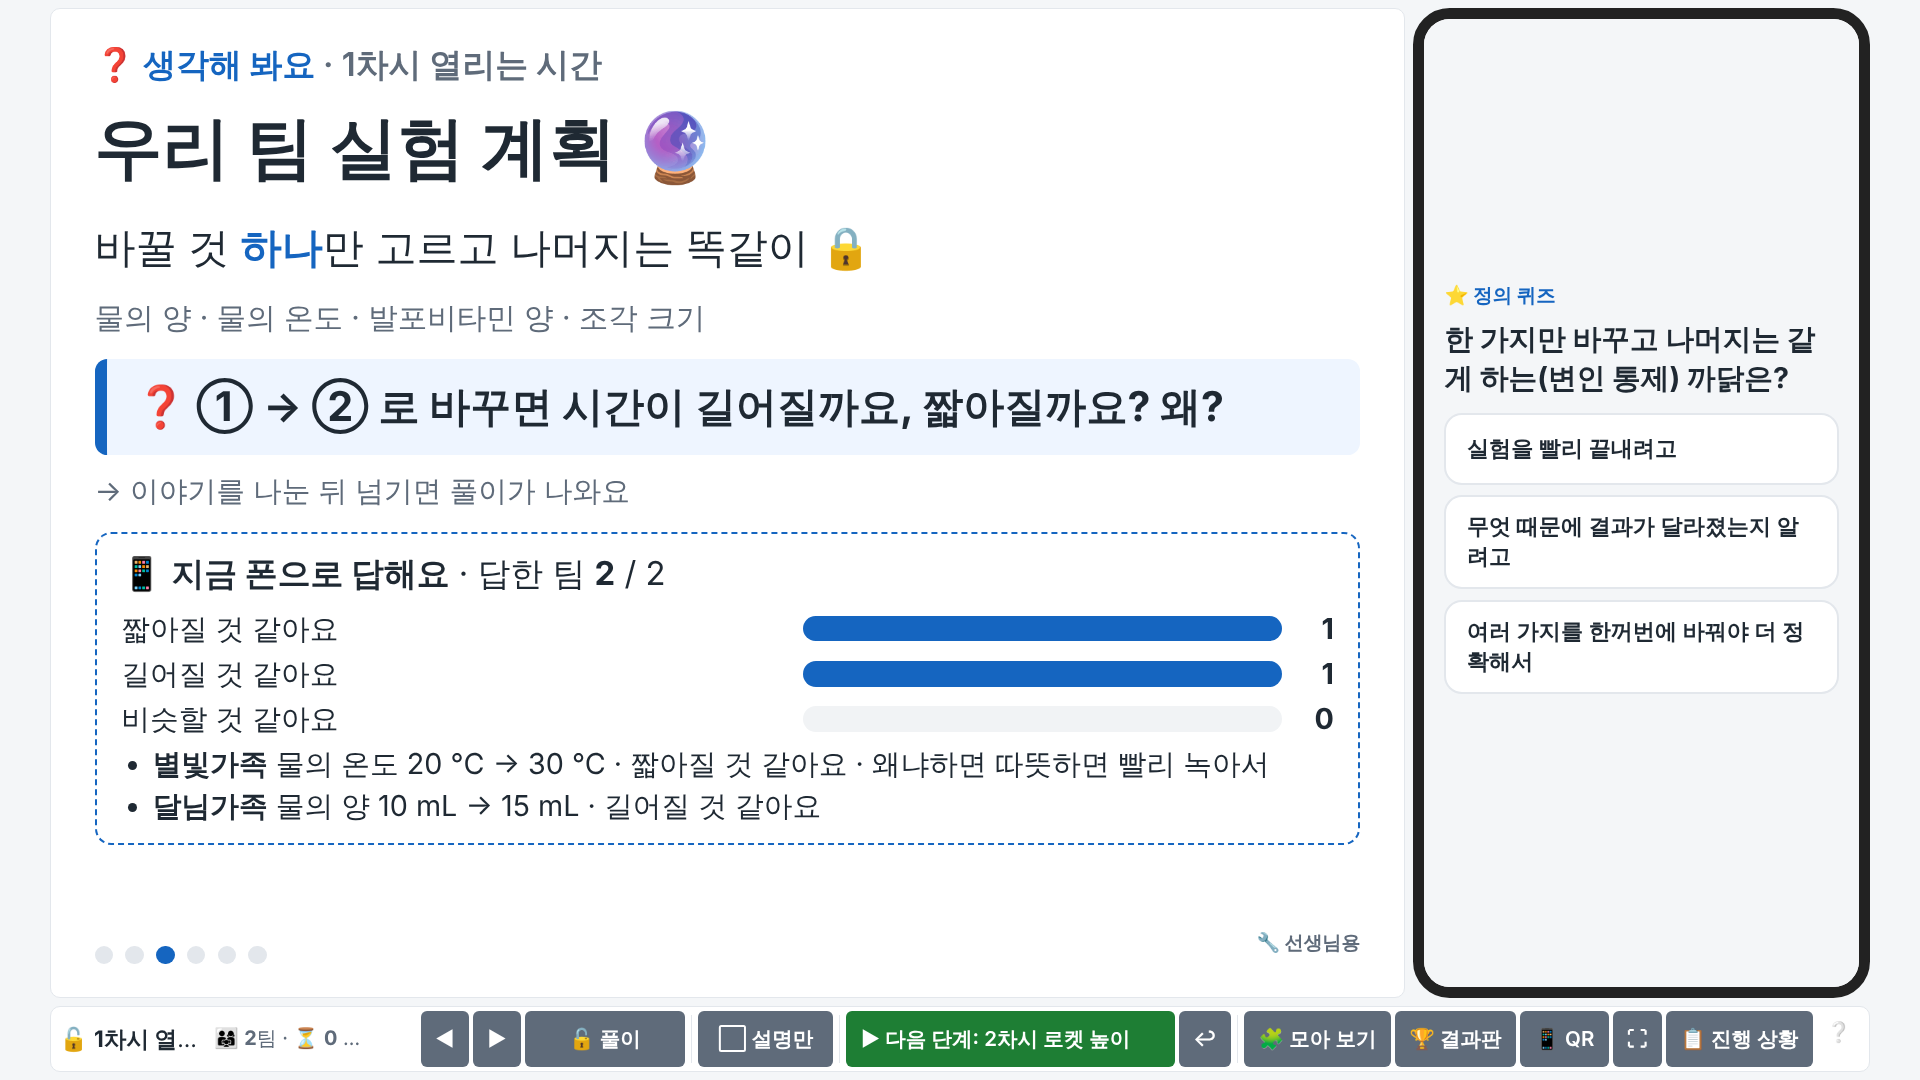
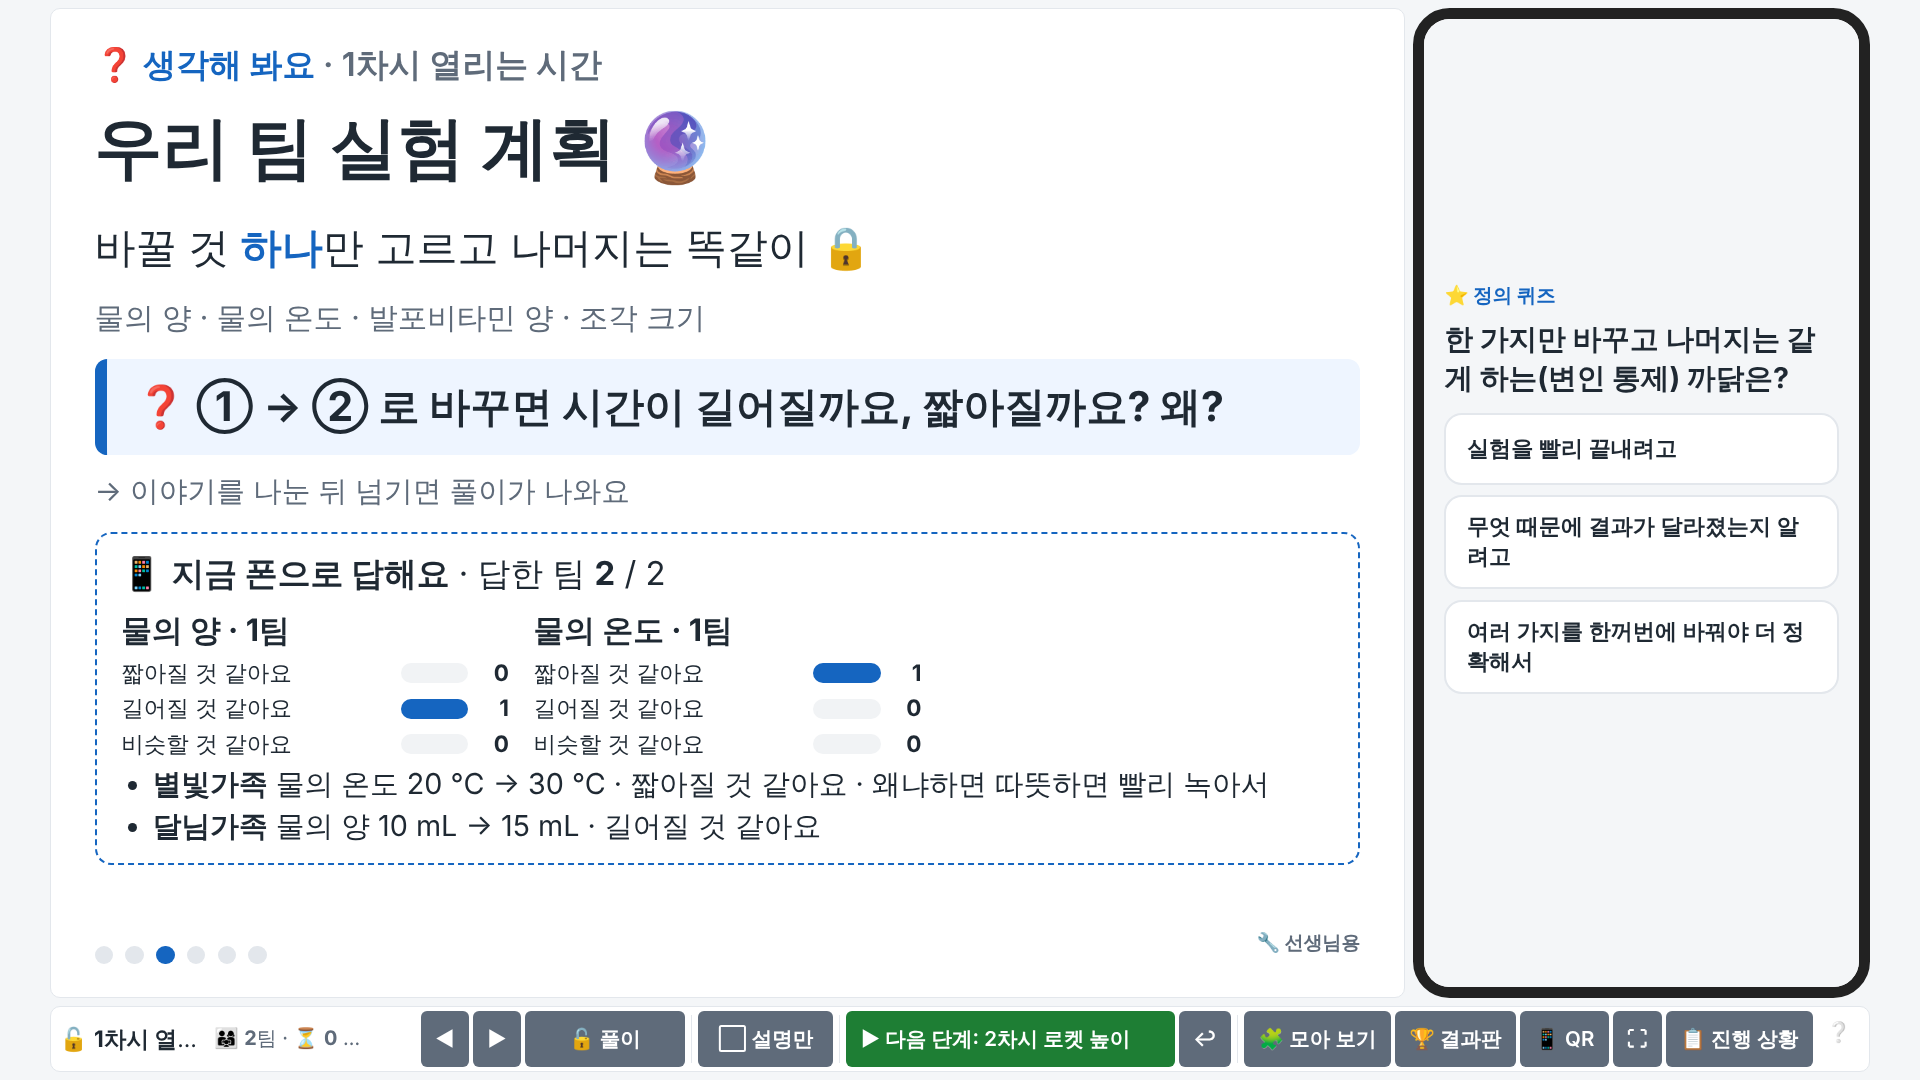
로켓 분량 조절: 선생님이 고른 그림 흐름(1차시 그림 카드·2차시 장면 그림)만 남기기, 계획 장 프로젝터는 바꿀 것별 묶음, 화면 사진
Claude-Session: https://claude.ai/code/session_013iu8SMz53o82SYe7xxBGoe

Changed region(s): [[0.0625, 0.55, 0.6562, 0.7944], [0.4062, 0.55, 0.6875, 0.6417]]

diff --git a/js/lesson-content/rocket.js b/js/lesson-content/rocket.js
@@ -26,8 +26,7 @@
         '<path d="M40 150 L40 205 M28 192 L40 205 L52 192" stroke="#1565c0" stroke-width="6" fill="none"/><text x="40" y="140" text-anchor="middle" font-size="15" fill="#1565c0">물·기체 ↓</text></svg>';
 
     /* '이렇게 재요'·'이렇게 찍고 재요' (2026-11-27 선생님 '직관적이지 않음' → 초3 가족이 프로젝터로 한눈에: 글 목록 대신 큰 그림, 낱말 최소,
-       녹화/초시계는 작은 보조 줄, 예측은 '우리 팀 실험 계획' 장에서 이미 물어서 뺌). 두 안을 견주어 고름 → HOW 하나만 남김 */
-    var HOW_V = (typeof window !== 'undefined' && window.ROCKET_HOW) || 'a';
+       녹화/초시계는 작은 보조 줄, 예측은 '우리 팀 실험 계획' 장에서 이미 물어서 뺌). 선생님이 고른 것: 1차시 = 그림 카드 3칸, 2차시 = 장면 그림 하나 */
     var CAN = function (x, lbl, fill) {   // 작은 필름통 (x: 왼쪽, lbl: ①/②)
         return '<g transform="translate(' + x + ' 0)"><rect x="0" y="28" width="34" height="52" rx="5" fill="#eceff1" stroke="#455a64" stroke-width="3"/>' +
             '<rect x="-3" y="20" width="40" height="10" rx="3" fill="#ffb74d"/><rect x="3" y="52" width="28" height="26" fill="' + fill + '"/>' +
@@ -42,35 +41,13 @@
         '<rect x="30" y="34" width="34" height="62" rx="3" fill="#90caf9"/><rect x="86" y="54" width="34" height="42" rx="3" fill="#ef9a9a"/>' +
         '<text x="47" y="26" text-anchor="middle" font-size="16" font-weight="700" fill="#1565c0">①</text><text x="103" y="46" text-anchor="middle" font-size="16" font-weight="700" fill="#c62828">②</text></svg>';
     var AVG = '<p class="ls-aside">⏱ 초시계 또는 🎥 녹화(‘펑’ 장면 고르기) · 🧒 평균 = 여러 번 잰 값을 모두 더해 잰 횟수로 나눈 값</p>';
-    var HOW_T1 = {
-        // 안 A: 그림 카드 3칸 흐름
-        a: { flow: [{ n: '①', img: SVG_SAME3, t: '그대로<br>3번 재요' }, { n: '②', img: SVG_CHG3, t: '하나만 바꿔<br>3번 재요' }, { n: '📊', img: SVG_BARS, t: '평균을<br>견줘요' }], body: AVG },
-        // 안 B: 채워 갈 결과 표 하나 (폰의 결과 비교 표와 같은 모양)
-        b: { body: '<table class="ls-fill"><thead><tr><th></th><th>1번</th><th>2번</th><th>3번</th><th>평균</th></tr></thead><tbody>' +
-           '<tr><th>① 그대로</th><td>⏱</td><td>⏱</td><td>⏱</td><td class="ls-avg">?초</td></tr>' +
-           '<tr><th>② 하나만 바꿔서</th><td>⏱</td><td>⏱</td><td>⏱</td><td class="ls-avg">?초</td></tr></tbody></table>' +
-           '<p class="ls-bigq">①과 ②의 <b>평균</b>은 어떻게 다를까요?</p>' + AVG }
-    };
+    // 1차시: 그림 카드 3칸 흐름 (① 그대로 3번 → ② 하나만 바꿔 3번 → 평균 견주기)
+    var HOW_T1 = { flow: [{ n: '①', img: SVG_SAME3, t: '그대로<br>3번 재요' }, { n: '②', img: SVG_CHG3, t: '하나만 바꿔<br>3번 재요' }, { n: '📊', img: SVG_BARS, t: '평균을<br>견줘요' }], body: AVG };
     var KID = function (x, h) {   // 아이 (발끝 y=150, 키 h)
         var top = 150 - h;
         return '<circle cx="' + x + '" cy="' + (top + 10) + '" r="10" fill="#ffcc80"/><rect x="' + (x - 9) + '" y="' + (top + 20) + '" width="18" height="' + (h * 0.42) + '" rx="6" fill="#42a5f5"/>' +
             '<rect x="' + (x - 7) + '" y="' + (top + 20 + h * 0.42) + '" width="6" height="' + (h - 20 - h * 0.42) + '" fill="#1e88e5"/><rect x="' + (x + 1) + '" y="' + (top + 20 + h * 0.42) + '" width="6" height="' + (h - 20 - h * 0.42) + '" fill="#1e88e5"/>';
     };
-    var SVG_STAND = '<svg viewBox="0 0 120 160" role="img" aria-label="아이가 발사대 바로 옆에 선 그림"><rect x="0" y="150" width="120" height="4" fill="#90a4ae"/>' +
-        '<rect x="22" y="138" width="22" height="12" fill="#607d8b"/><rect x="28" y="100" width="10" height="38" rx="3" fill="#ef6c00"/><path d="M28 100 L33 88 L38 100 Z" fill="#c62828"/>' + KID(76, 80) + '</svg>';
-    var SVG_FILM2 = '<svg viewBox="0 0 120 160" role="img" aria-label="부모님이 2~3 m 떨어져 폰을 세로로 들고 찍는 그림"><rect x="0" y="150" width="120" height="4" fill="#90a4ae"/>' +
-        '<circle cx="84" cy="62" r="11" fill="#ffcc80"/><rect x="74" y="73" width="20" height="46" rx="6" fill="#7e57c2"/><rect x="76" y="119" width="7" height="31" fill="#5e35b1"/><rect x="85" y="119" width="7" height="31" fill="#5e35b1"/>' +
-        '<rect x="54" y="66" width="13" height="22" rx="2" fill="#263238"/><rect x="56" y="69" width="9" height="15" fill="#80deea"/>' +
-        '<path d="M8 140 L48 140" stroke="#455a64" stroke-width="2.5"/><path d="M8 134 L8 146 M48 134 L48 146" stroke="#455a64" stroke-width="2.5"/><text x="28" y="130" text-anchor="middle" font-size="14" font-weight="700" fill="#455a64">2~3 m</text></svg>';
-    var SVG_TOP = '<svg viewBox="0 0 120 160" role="img" aria-label="로켓이 가장 높이 오른 장면"><rect x="0" y="150" width="120" height="4" fill="#90a4ae"/>' +
-        '<path d="M40 140 Q46 70 52 30" stroke="#ffb74d" stroke-width="3" stroke-dasharray="5 4" fill="none"/>' +
-        '<rect x="47" y="18" width="10" height="34" rx="3" fill="#ef6c00"/><path d="M47 18 L52 6 L57 18 Z" fill="#c62828"/>' + KID(88, 80) +
-        '<text x="22" y="28" font-size="20" aria-hidden="true">⭐</text></svg>';
-    var SVG_TAP = '<svg viewBox="0 0 120 160" role="img" aria-label="발끝, 정수리, 로켓 꼭대기 세 곳을 누르는 그림"><rect x="0" y="150" width="120" height="4" fill="#90a4ae"/>' +
-        '<rect x="42" y="22" width="10" height="34" rx="3" fill="#ef6c00"/><path d="M42 22 L47 10 L52 22 Z" fill="#c62828"/>' + KID(86, 80) +
-        '<g font-size="13" font-weight="700"><circle cx="86" cy="150" r="9" fill="#43a047"/><text x="86" y="155" text-anchor="middle" fill="#fff">1</text>' +
-        '<circle cx="86" cy="70" r="9" fill="#1e88e5"/><text x="86" y="75" text-anchor="middle" fill="#fff">2</text>' +
-        '<circle cx="47" cy="10" r="9" fill="#e53935"/><text x="47" y="15" text-anchor="middle" fill="#fff">3</text></g></svg>';
     var SVG_SCENE2 = '<svg viewBox="0 0 420 222" role="img" aria-label="아이가 발사대 옆에 서고, 부모님이 2~3 m 떨어져 세로로 찍고, 가장 높은 장면에서 발끝·정수리·로켓 꼭대기를 누르는 그림">' +
         '<rect x="0" y="180" width="420" height="5" fill="#90a4ae"/>' +
         '<rect x="70" y="168" width="26" height="12" fill="#607d8b"/><path d="M83 165 Q90 100 96 50" stroke="#ffb74d" stroke-width="3" stroke-dasharray="6 5" fill="none"/>' +
@@ -86,12 +63,9 @@
         '<text x="240" y="205" text-anchor="middle" font-size="16" font-weight="700" fill="#455a64">2~3 m · 폰은 세로로</text></svg>';
     var PCT = '<p class="ls-aside">📏 자 대신 <b>같은 장면 속 아이 키</b>와 견줘요 · 녹화가 안 되면 눈으로 높다·비슷·낮다</p>' +
         '<p class="ls-easy">🧒 쉬운 말 · % = 아이 키를 100 으로 볼 때 얼마만큼인지 · 정수리 = 머리 꼭대기</p>';
-    var HOW_T2 = {
-        a: { flow: [{ n: '1', img: SVG_STAND, t: '발사대<br>옆에 서요' }, { n: '2', img: SVG_FILM2, t: '세로로<br>찍어요' }, { n: '3', img: SVG_TOP, t: '가장 높은<br>장면' }, { n: '4', img: SVG_TAP, t: '세 곳<br>눌러요' }],
-             body: '<p class="ls-aside">👆 ① 발끝 ② 정수리 ③ 로켓 꼭대기 → ‘아이 키의 ○%’</p>' + PCT },
-        b: { flow: [{ img: SVG_SCENE2 }],
-             body: '<p class="ls-bigq"><span class="ls-dot g">1</span> 발끝 <span class="ls-dot b">2</span> 정수리 <span class="ls-dot r">3</span> 로켓 꼭대기 → <b>아이 키의 ○%</b></p>' + PCT }
-    };
+    // 2차시: 장면 그림 하나 (아이·로켓·찍는 부모님·2~3 m·세 점)
+    var HOW_T2 = { flow: [{ img: SVG_SCENE2 }],
+        body: '<p class="ls-bigq"><span class="ls-dot g">1</span> 발끝 <span class="ls-dot b">2</span> 정수리 <span class="ls-dot r">3</span> 로켓 꼭대기 → <b>아이 키의 ○%</b></p>' + PCT };
 
     // 🛠 로켓 만들기 (2026-11-27 '학생이 로켓을 만드는 과정도 있어야해'): 네 단계 그림 카드 — 폰은 차례 체크 + '다 만들었어요'
     var BODY = function (extra) {   // 뒤집어 세운 로켓 몸통 (뚜껑이 아래)
@@ -187,7 +161,7 @@
                   note: '폰은 ‘변인 통제’ 퀴즈(팀 점수) → ‘무엇을 바꿔 볼까요?’(바꿀 것 하나 · ① → ② · 🔮 예측 · 까닭)예요. 예측은 정답이 없어요 — 프로젝터에 모인 길어질·짧아질·비슷과 까닭을 두세 팀 말하게 한 뒤 풀이(변인 통제)를 여세요. 측정할 때는 예측을 다시 묻지 않아요.' },
                 // 📱 측정 장 (2026-11-23 '폰은 응답만'): 이 장을 띄운 동안 팀 폰이 측정 화면 — '이렇게 재요'를 그림 흐름으로 이 장 안에 (2026-11-27)
                 { kind: 'how', title: '📱 이제 폰으로 재요', key: 'do-t1', mode: 'phone',
-                  flow: (HOW_T1[HOW_V] || HOW_T1.a).flow, body: (HOW_T1[HOW_V] || HOW_T1.a).body,
+                  flow: HOW_T1.flow, body: HOW_T1.body,
                   note: '이 장을 띄워 둔 동안 팀 폰이 1차시 측정 화면이 돼요(안전 → 조건 → 재기 → 결과 비교). 다음 장으로 넘기면 측정 중이 아닌 팀은 👀 대기, 재는 중인 팀은 그 측정을 마친 뒤 바뀌어요. 손으로 누르는 초시계는 늦기 쉬워 녹화가 더 정확하다는 점도 견주어 볼 수 있어요.' },
                 { kind: 'ask', title: '같은 조건인데 시간이 달라요!',
                   body: '<p>같은 물, 같은 발포비타민인데 1번은 12초, 2번은 15초.</p>',
@@ -209,7 +183,7 @@
                 { kind: 'ask', title: '날개와 앞코는 왜 달까요?', mode: 'look',
                   body: '<p>날아갈 때 <b>공기</b>가 앞을 막아요(<b>공기 저항</b>).</p>',
                   ask: '뾰족한 앞코와 꼬리 날개는 어떤 일을 할까요?',
-                  reveal: '<p><b>앞코</b> — 공기를 갈라 <b>공기 저항</b>을 줄여요 · <b>날개</b> — <b>똑바로</b> 날게 해요</p><p class="ls-easy">🧒 쉬운 말 · 공기 저항 = 공기가 움직임을 막는 힘</p>',
+                  reveal: '<p><b>앞코</b> — 공기를 갈라 <b>공기 저항</b>을 줄여요 · <b>꼬리 날개</b> — <b>똑바로</b> 날게 해요</p><p class="ls-easy">🧒 쉬운 말 · 공기 저항 = 공기가 움직임을 막는 힘</p>',
                   note: '날개가 너무 무겁거나 크면 오히려 덜 올라갈 수 있어요. 2차시에서 날개 수를 바꿀 것으로 고른 팀이 까닭을 말할 때 연결해 주세요.' },
                 // 쏘는 힘(작용 반작용) + 무게(질량) 물음을 하나로 (2026-11-27): 폰은 두 퀴즈를 차례로, 풀이를 열면 둘 다 열림
                 { kind: 'why', title: '로켓은 왜 솟고, 무거우면 어떻게 될까요?', key: 'action', mode: 'phone', opens: ['mass'],
@@ -227,7 +201,7 @@
                   note: '폰은 ‘무엇을 바꿔 볼까요?’(바꿀 것 하나 · ① → ② · 🔮 예측 · 까닭)예요. 정답이 없는 예측이에요 — 프로젝터에 모인 높아질·낮아질·비슷과 까닭을 두세 팀 말하게 해 보세요. 쏠 때는 예측을 다시 묻지 않아요.' },
                 // 📱 측정 장: 2차시 발사·촬영·세 곳 누르기 — '이렇게 찍고 재요'와 '%로 재는 까닭'을 그림 흐름으로 이 장 안에
                 { kind: 'how', title: '📱 이제 폰으로 쏘아요', key: 'do-t2', mode: 'phone',
-                  flow: (HOW_T2[HOW_V] || HOW_T2.a).flow, body: (HOW_T2[HOW_V] || HOW_T2.a).body,
+                  flow: HOW_T2.flow, body: HOW_T2.body,
                   note: '이 장을 띄워 둔 동안 팀 폰이 2차시 측정 화면이 돼요. 자를 들고 하늘까지 잴 수 없으니, 같은 장면·같은 거리에 있는 아이 키를 기준으로 견줘요. 아이 키(cm)는 폰에만 남고 선생님께는 %만 와요. 찍는 중인 팀은 장을 넘겨도 그 측정을 마친 뒤 바뀌어요.' },
                 { kind: 'how', title: '🎯 도전: 딱 아이 키만큼!', key: 'ch-t2', mode: 'phone',
                   body: '<p>우리 <b>결과 표</b>를 보고 조건을 골라 <b>아이 키만큼</b> 쏘아 올려요.</p>',

diff --git a/js/class-teacher-answers.js b/js/class-teacher-answers.js
@@ -63,14 +63,20 @@
         if (pm) {
             var part = pm[1], G = M.GUESS[part], defs = part === 't1' ? M.vars1() : M.vars2();
             var gOpts = ['down', 'up', 'same'].map(function (k) { return { k: 'g-' + k, t: G[k] }; });
-            var gg = choiceGroup('', gOpts, function (p) { var x = p[part]; return x && x.changed && p.guess && p.guess[part] && p.guess[part].dir ? 'g-' + p.guess[part].dir : ''; }, list);
+            // 바꿀 것별로 묶음 (2026-11-27 선생님이 고른 '팀이 고른 것으로'): 고른 팀이 있는 변인만, 변인 목록 순서
+            var pickOf = function (p) { var x = p[part]; return x && x.changed && p.guess && p.guess[part] && p.guess[part].dir ? 'g-' + p.guess[part].dir : ''; };
+            var gs = Object.keys(defs).map(function (vk) {
+                var mine = list.filter(function (p) { return p[part] && p[part].changed === vk && pickOf(p); });
+                return mine.length ? choiceGroup((defs[vk].short || defs[vk].name) + ' · ' + mine.length + '팀', gOpts, pickOf, mine) : null;
+            }).filter(Boolean);
+            var answered = gs.reduce(function (n, g) { return n + g.answered; }, 0);
             var items = [];
             withP.forEach(function (x) {
                 var p = x.p, z = p && p[part], g = p && p.guess && p.guess[part]; if (!z || !z.changed || !g || !g.dir) return;
                 var d = defs[z.changed], pl = z.plan;
                 items.push({ name: x.name, text: (d ? (d.short || d.name) : z.changed) + (d && pl && pl.length === 2 ? ' ' + d.label(pl[0]) + ' → ' + d.label(pl[1]) : '') + ' · ' + (G[g.dir] || '') + (g.why ? ' · 왜냐하면 ' + g.why : '') });
             });
-            return { kind: 'choice', groups: [gg], list: items, answered: gg.answered, total: total };
+            return { kind: 'choice', groups: gs, list: items, answered: answered, total: total };
         }
         // 🛠 만들기: 다 만든 팀 수
         if (key === 'build') {

diff --git a/AGENTS.md b/AGENTS.md
@@ -416,4 +416,4 @@
 - 2026-11-27: **글자만 보는 시험을 화면 시험으로**(선생님 결정 "글자만 보는 시험을 화면 시험으로", 통합 관리 세션 전달) — 안티그래비티가 11-24~25 에 넣은 시험 중 코드 파일 글자만 찾던 부분을 실제 동작 확인으로: `watchClassDoc` 은 가짜 firebase 로 실제 함수를 불러 `lesson.q` 전달, 교사 ③ 보고서 AI 는 가짜 저장소 쓰기 횟수(마친 수업 0번·꺼 두면 꺼짐 한 번 뒤 멈춤), 수업 마치기 실제 확인창 글·취소, 가설연역 판정·자료 해석 계산 결과 기본 체크, 진자 분석 낡은 안내 없음·보고서 칸, 전자기 유도 예전 저장 측정 📈 보기로 반파 넓이(1.75 / −2.75)·시뮬레이션 결과 칸, 이상기체 변인 카드 후보·🔒, 로켓 화면 켜짐 유지 요청(발표용은 안 함·풀리면 다시)·일반 탭 안내·도전 영상 끝까지 표시·Chart.js 요청 없음, 양자점 시감도 안내 작은 탭, 메인 가짜 Firebase 로 이름·오류 글 esc·`<main>` 하나·명암비·5칸, 버니어 온도 페이지는 실제로 받는 스크립트·연결 때 godirect 를 사이트 파일에서. 팝업 단추·①→② 화면 확인은 이미 있는 화면 시험(`class-runpop-layout-ui`·`vars-gate-ui`·`film-rocket-scaffold2-ui`)에 맡기고 글자 확인은 뺌. 제품 코드를 일부러 예전처럼 되돌리면 바꾼 시험이 실패하는 것 확인. 제품 코드·규칙 변경 없음 — Claude Code
 - 2026-11-27: 🎬 발표 보기 학생 화면 단독 없애기(선생님 "교사가 수업하는 화면에 학생의 화면이 단독으로 표시되는 기능은 필요 없어", "핵심개념, 1단계, 2단계 뒤에 학생 화면이 나오는 기능은 필요 없어", 다른 실험도 같은 규칙, 설명 장이 없는 실험은 설명 장을 만들 때부터) — `js/class-teacher.js` `lessonEdge`: 설명 마지막 장 다음 → 열린 다음 단계 첫 장 / 잠겼으면 '열까요?'(설명 장 그대로) / 마지막 단계면 머묾·'마지막 장이에요' 알림(`#pToast`), 첫 장 ← 앞 단계 마지막 장, 설명 장이 없는 단계·실험(플랑크·말루스 등)은 예전처럼 학생 화면. 학생 화면은 '⇔ 나란히' 옆 칸만, 로켓 폰은 차시 끝 🎯 도전 장에서 도전(또는 '한 번 더') 화면 그대로. 수업 문서 쓰기 횟수·학생 쪽·규칙 변경 없음. 화면 `docs/screens/present-no-solo/` — Claude Code
 - 2026-11-27: 하위 세션은 사용자에게 직접 묻지 않고 통합 관리 세션에 넘기기(사용자 지시 '승인이 필요한건 여기에서 응답할 수 있게', 열평형 가상 수업 교사 세션이 세션끼리 메시지 보내기 승인 창에 막힘 → 진행 세션을 `send_message` 미리 허용으로 다시 엶) — Claude Code
-- 2026-11-27: 필름통 로켓 설명 장 분량 조절(선생님 "분량이 너무 많은거 같아", "가족 체험 활동은 2차시 분량", "학생이 로켓을 만드는 과정도 있어야해", "질문 추가", "직관적이지 않음" → '이 계획대로') — 27장 → 21장(한 장에 일 하나·글 80자 안·같은 것을 두 번 묻지 않기), 계획 장 🔮 예측을 폰 응답으로 모아 프로젝터에 수·막대·까닭, 🛠 로켓 만들기(2차시 첫 장, 네 단계 그림·폰 체크·다 만든 팀 수), 쏘는 힘 + 무게 한 장, '이렇게 재요'는 측정 장 안 그림 흐름(두 안 중 선생님이 고름), 점수·결과판 그대로 — Claude Code
+- 2026-11-27: 필름통 로켓 설명 장 분량 조절(선생님 "분량이 너무 많은거 같아", "가족 체험 활동은 2차시 분량", "학생이 로켓을 만드는 과정도 있어야해", "질문 추가", "직관적이지 않음" → '이 계획대로') — 27장 → 21장(한 장에 일 하나·글 80자 안·같은 것을 두 번 묻지 않기), 계획 장 🔮 예측을 폰 응답으로 모아 프로젝터에 수·막대·까닭, 🛠 로켓 만들기(2차시 첫 장, 네 단계 그림·폰 체크·다 만든 팀 수), 쏘는 힘 + 무게 한 장, '이렇게 재요'는 측정 장 안 그림 흐름(선생님이 고른 1차시 그림 카드 3칸·2차시 장면 그림 하나), 계획 장 프로젝터는 바꿀 것별 묶음, 점수·결과판 그대로 — Claude Code
